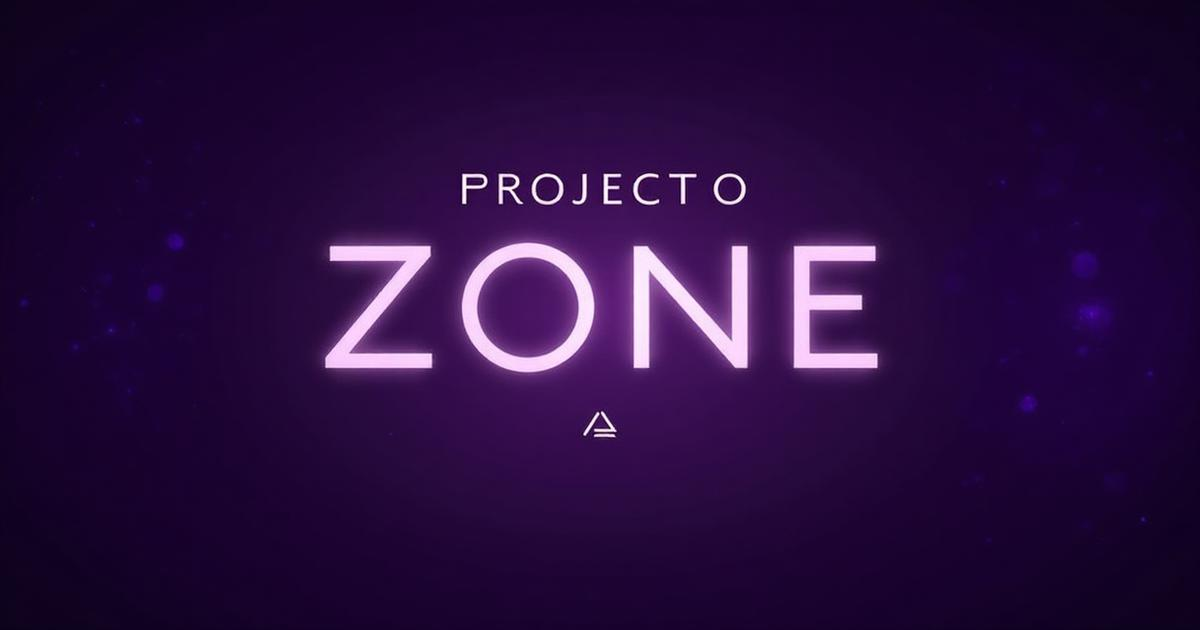
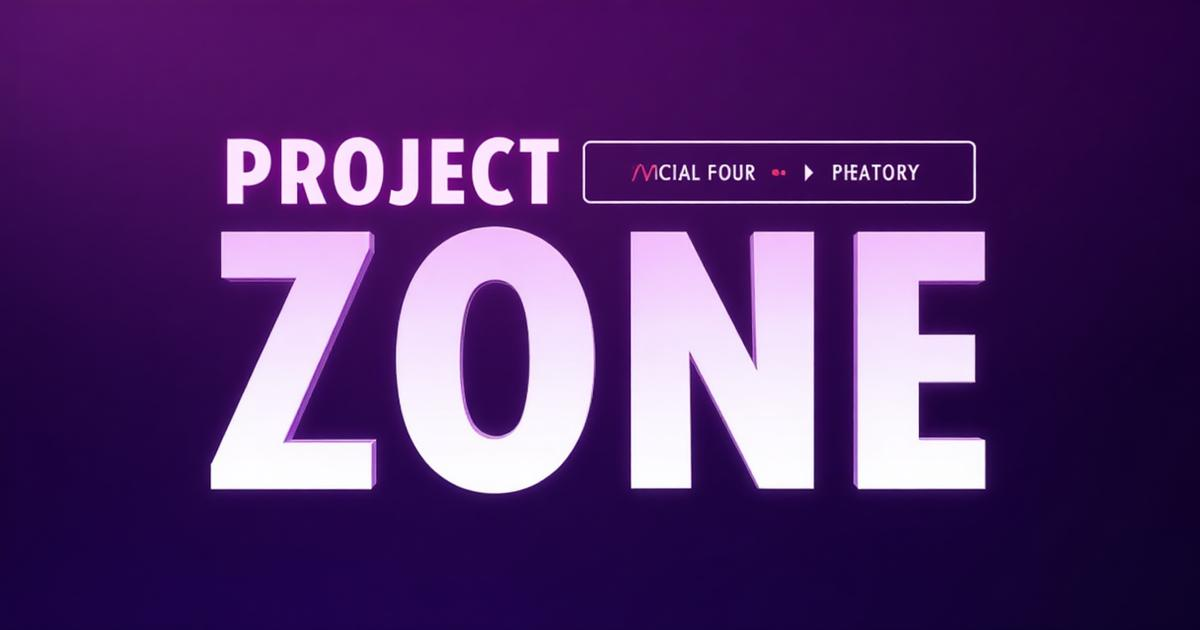
Refine homepage embed image

diff --git a/index.html b/index.html
@@ -12,13 +12,13 @@
     <meta property="og:type" content="website" />
     <meta property="og:title" content="Project O Zone" />
     <meta property="og:description" content="Everything Project O: Cards, Decks and Draft Battles" />
-    <meta property="og:image" content="/og-images/homepage.jpg?v=5" />
+    <meta property="og:image" content="/og-images/homepage.jpg?v=6" />
 
     <!-- Twitter Cards -->
     <meta name="twitter:card" content="summary_large_image" />
     <meta name="twitter:title" content="Project O Zone" />
     <meta name="twitter:description" content="Everything Project O: Cards, Decks and Draft Battles" />
-    <meta name="twitter:image" content="/og-images/homepage.jpg?v=5" />
+    <meta name="twitter:image" content="/og-images/homepage.jpg?v=6" />
 
     <!-- Gaming Fonts -->
     <link rel="preconnect" href="https://fonts.googleapis.com">
